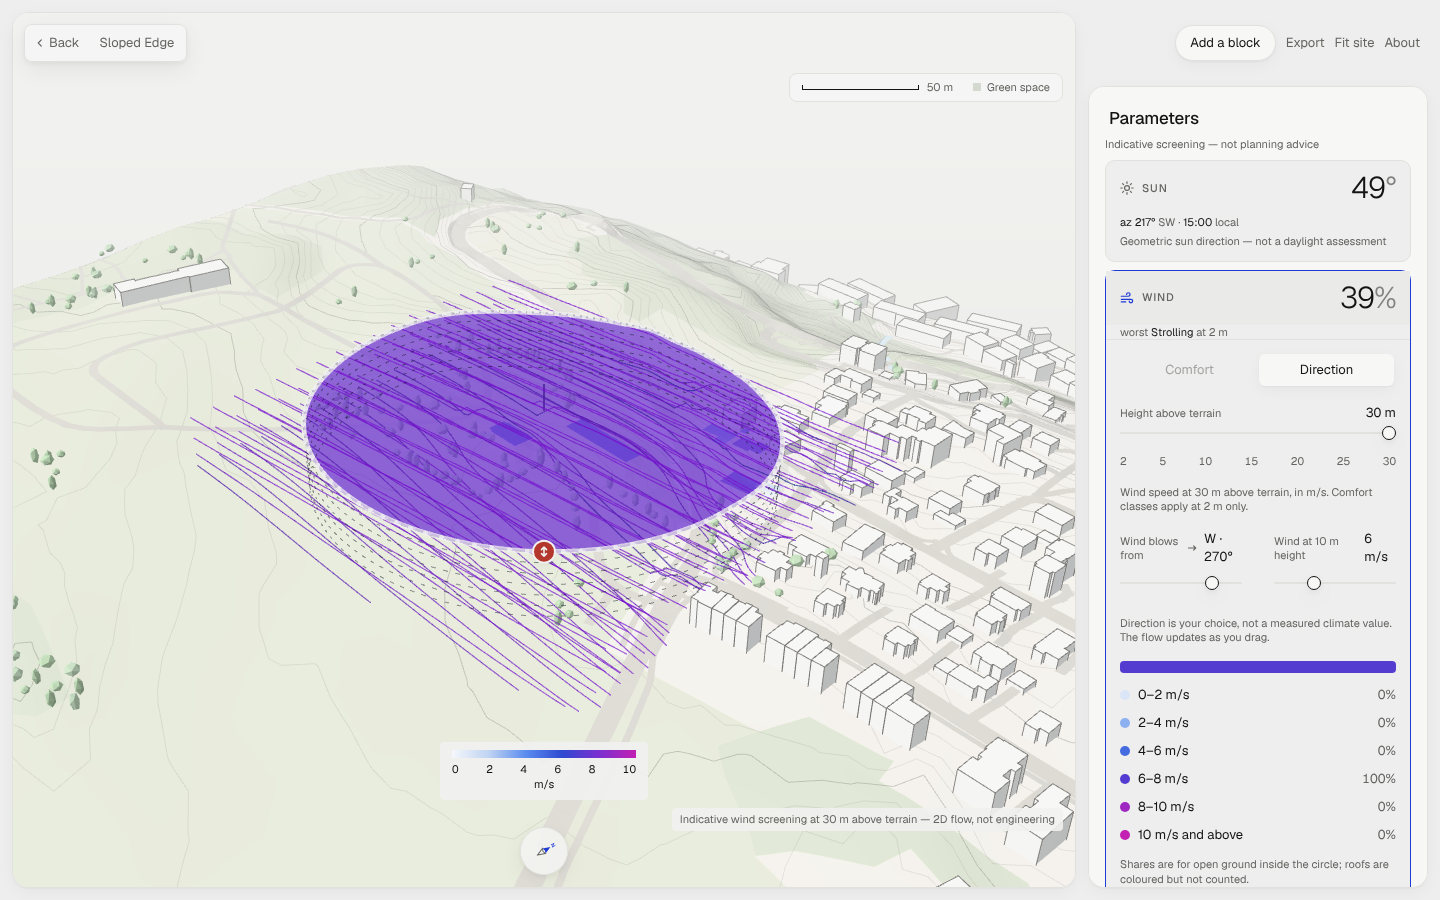
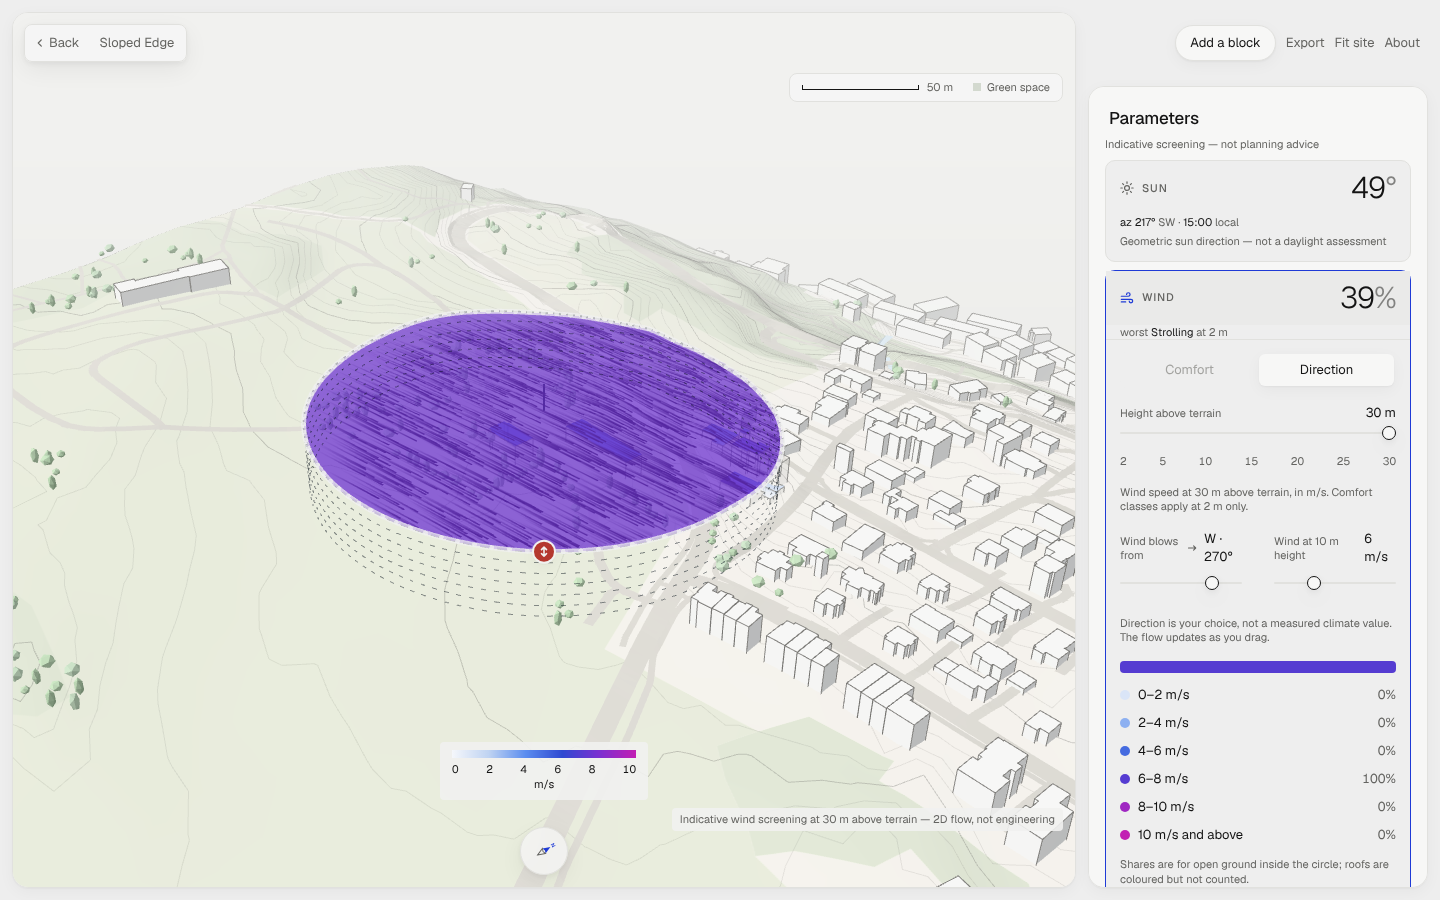
feat(wind): the lifted map shows the ground's particle flow
Owner request: instead of long lines, the same moving air as on the
ground. Two causes are fixed. Particle trails kept their older points at
the previous height, so every trail became a vertical streak while the
disc moved; the lift is now a WindParticles prop, and a change shifts
the stored trail points with it. And the 3D streamlines replaced the
particles when switched on or under reduced motion; above 2 m it is now
always the particles (traced once and held still under reduced motion).
The streamline controls are disabled above 2 m and say why.

Claude-Session: https://claude.ai/code/session_01GYZFU7DhZDxarShToDiTiP

Changed region(s): [[0.125, 0.3111, 0.625, 0.7778]]

diff --git a/src/scene/WindParticles.tsx b/src/scene/WindParticles.tsx
@@ -1,5 +1,5 @@
 import { useFrame } from '@react-three/fiber'
-import { useEffect, useMemo, useState } from 'react'
+import { useEffect, useMemo, useRef, useState } from 'react'
 import { BufferAttribute, BufferGeometry, Color, DoubleSide, DynamicDrawUsage, MeshBasicMaterial, type Camera, type OrthographicCamera, type PerspectiveCamera } from 'three'
 import { particleColour, type WindSettings } from '../features/analysis/climateView'
 import type { FlowResult } from '../features/analysis/flowRunner'
@@ -61,8 +61,14 @@ export function metresPerPixel(camera: Camera, distance: number, viewportHeightP
  * fading tail of its last positions, so the lines curve with the wind round the buildings. Under
  * reduced motion the trails are traced once and stay still.
  */
-export function WindParticles({ flow, circle, heightAt, wind }: {
+export function WindParticles({ flow, circle, heightAt, lift = 0, wind }: {
   flow: FlowResult
+  /**
+   * Height (m) above the terrain the trails are drawn at — the lifted wind disc (ADR-0028). A
+   * change moves every stored trail point by the same amount, so trails glide with the disc
+   * instead of stretching between the old height and the new one.
+   */
+  lift?: number
   /** Display settings: particles use the same colour scale as the map. */
   wind: WindSettings
   circle: { readonly centre: Vec2; readonly radius: number }
@@ -137,10 +143,13 @@ export function WindParticles({ flow, circle, heightAt, wind }: {
   const positions = position.array as Float32Array
   const colours = colour.array as Float32Array
 
+  // The lift already applied to the buffer. Heads are written with it, not with the prop, so a frame
+  // between a new prop and the shift below cannot write a point that then gets shifted twice.
+  const drawnLift = useRef(lift)
   /** Ribbon edges and colour of particle `i`'s head from its ENU position, velocity and speed ratio. */
   const setHead = (i: number, vx: number, vy: number, ratio: number) => {
     const x = state.pos[2 * i]!, y = state.pos[2 * i + 1]!
-    const up = heightAt(x, y) + PARTICLE_LIFT_M
+    const up = heightAt(x, y) + PARTICLE_LIFT_M + drawnLift.current
     // Half the ribbon width across the wind: ENU (−vy, vx), scene x = east, z = −north.
     const speed = Math.hypot(vx, vy) || 1
     const ax = (-vy / speed) * state.halfWidth, ay = (vx / speed) * state.halfWidth
@@ -227,6 +236,16 @@ export function WindParticles({ flow, circle, heightAt, wind }: {
     show(Math.floor(state.limit * (still ? 1 : trailDensity(state.halfWidth * 2))))
     // eslint-disable-next-line react-hooks/exhaustive-deps
   }, [])
+  // A new lift moves the whole trail buffer with the disc (only the scene-y components change).
+  useEffect(() => {
+    const delta = lift - drawnLift.current
+    drawnLift.current = lift
+    if (delta === 0) return
+    for (let at = 1; at < positions.length; at += 3) positions[at] = positions[at]! + delta
+    for (let at = 1; at < state.head.length; at += 3) state.head[at] = state.head[at]! + delta
+    position.needsUpdate = true
+  }, [lift, positions, position, state])
+
   useEffect(() => {
     if (still) trace()
     // eslint-disable-next-line react-hooks/exhaustive-deps
@@ -235,7 +254,7 @@ export function WindParticles({ flow, circle, heightAt, wind }: {
   useFrame(({ camera, size }, delta) => {
     if (still) return
     // Constant width on screen: sized for the distance to the circle, baked into each new trail point.
-    const distance = Math.hypot(camera.position.x - centre[0], camera.position.y - heightAt(centre[0], centre[1]), camera.position.z + centre[1])
+    const distance = Math.hypot(camera.position.x - centre[0], camera.position.y - heightAt(centre[0], centre[1]) - drawnLift.current, camera.position.z + centre[1])
     state.halfWidth = Math.min(1.5, Math.max(0.03, (metresPerPixel(camera, distance, size.height) * WIDTH_PX) / 2))
     const started = performance.now()
     animate(Math.min(delta, 0.05))

diff --git a/src/components/studio/ClimatePanel.tsx b/src/components/studio/ClimatePanel.tsx
@@ -292,20 +292,22 @@ export function ClimatePanel({ terrainReliefM = 0, showQuick = true, showModes =
 
         <Section title="Streamlines" action={
           <label className="grid size-8 cursor-pointer place-items-center">
-            <input type="checkbox" aria-label="Streamlines" checked={streamlines} onChange={(event) => { const on = event.currentTarget.checked; if (demoPlaying) onDemoEdit?.({}); onStreamlinesChange?.(on) }} className="size-4 accent-[var(--accent)]" />
+            <input type="checkbox" aria-label="Streamlines" checked={streamlines} disabled={wind.heightM > PEDESTRIAN_HEIGHT_M} aria-describedby={wind.heightM > PEDESTRIAN_HEIGHT_M ? 'streamlines-lifted' : undefined} onChange={(event) => { const on = event.currentTarget.checked; if (demoPlaying) onDemoEdit?.({}); onStreamlinesChange?.(on) }} className="size-4 accent-[var(--accent)]" />
           </label>
         }>
           <label className="flex items-center justify-between gap-3">
             <span className={labelClass}>Follow buildings in 3D</span>
-            <input type="checkbox" checked={wind.streamlines3d} disabled={!slicesReady}
+            <input type="checkbox" checked={wind.streamlines3d} disabled={!slicesReady || wind.heightM > PEDESTRIAN_HEIGHT_M}
               aria-describedby={!slicesReady ? 'upper-heights-status' : undefined}
               onChange={(event) => set({ streamlines3d: event.currentTarget.checked })}
               className="size-4 accent-[var(--accent)]" />
           </label>
-          {!wind.streamlines3d && <p className="text-caption text-ink-secondary">Flat at {wind.heightM} m above terrain, the height chosen above.</p>}
+          {wind.heightM > PEDESTRIAN_HEIGHT_M
+            ? <p id="streamlines-lifted" className="text-caption text-ink-secondary">Above 2 m the moving air shows as particles at the chosen height, like the ground view. Streamlines are a 2 m view.</p>
+            : !wind.streamlines3d && <p className="text-caption text-ink-secondary">Flat at 2 m above terrain.</p>}
           <label htmlFor="streamline-opacity" className={labelClass}>Streamline opacity</label>
           <input id="streamline-opacity" type="range" min={0.2} max={1} step={0.05}
-            value={wind.streamlineOpacity} disabled={!slicesReady}
+            value={wind.streamlineOpacity} disabled={!slicesReady || wind.heightM > PEDESTRIAN_HEIGHT_M}
             aria-valuetext={`${Math.round(wind.streamlineOpacity * 100)} percent`}
             aria-describedby={!slicesReady ? 'upper-heights-status' : undefined}
             onChange={(event) => set({ streamlineOpacity: Number(event.currentTarget.value) })}

diff --git a/src/scene/ViewportCanvas.tsx b/src/scene/ViewportCanvas.tsx
@@ -26,7 +26,7 @@ import { WindStreamlines } from './WindStreamlines'
 import { WindParticles } from './WindParticles'
 import { AnalysisCircle } from './AnalysisCircle'
 import { GhostRings, WindLiftHandle } from './WindLiftHandle'
-import { fadedBuildings, ghostHeights } from '../features/analysis/windLift'
+import { fadedBuildings, ghostHeights, windFlowStyle } from '../features/analysis/windLift'
 import { WorstArrows } from './WorstArrows'
 import type { FlowResult } from '../features/analysis/flowRunner'
 import type { RoofSolarValue } from '../features/analysis/roofSolar'
@@ -656,9 +656,9 @@ export function ViewportCanvas({
             {facade && <FacadeSun overlay={facade} heightAt={heightAt} />}
             {windWorst && <WorstArrows cells={windWorst.cells} worstFrom={windWorst.worstFrom} heightAt={heightAt} />}
             {!windWorst && windFlow?.slices && windCircle && <RoofWind buildings={windBuildings} flow={windFlow} circle={windCircle} heightAt={heightAt} wind={windShown} baseline={windBaseline} />}
-            {!windWorst && windFlow && windCircle && ((windStreamlines || reducedMotion)
+            {!windWorst && windFlow && windCircle && (windFlowStyle({ lifted: windLift > 0 || liftDrag !== null, streamlinesOn: windStreamlines, reducedMotion }) === 'streamlines'
               ? windFlow.settled && (windSettings.streamlines3d || windField) && <WindStreamlines flow={windFlow} circle={windCircle} heightAt={heightAt} heightM={windSettings.streamlines3d ? null : windSettings.heightM} opacity={windSettings.streamlineOpacity} buildings={windBuildings} />
-              : windField && <WindParticles flow={windField} circle={windCircle} heightAt={windHeightAt} wind={windShown} />)}
+              : windField && <WindParticles flow={windField} circle={windCircle} heightAt={heightAt} lift={windLift} wind={windShown} />)}
             {windCircle && <AnalysisCircle centre={windCircle.centre} radius={windCircle.radius} heightAt={windHeightAt} />}
             {windCircle && ghostRings.length > 0 && <GhostRings centre={windCircle.centre} radius={windCircle.radius} heightAt={heightAt} heights={ghostRings} />}
             {windCircle && liftable && onWindHeightChange && (

diff --git a/src/features/analysis/windLift.test.ts b/src/features/analysis/windLift.test.ts
@@ -1,5 +1,5 @@
 import { describe, expect, it } from 'vitest'
-import { clampLift, fadedBuildings, footprintTouchesCircle, ghostHeights, heightText, liftAnchor, nearestHeight, stepHeight } from './windLift'
+import { windFlowStyle, clampLift, fadedBuildings, footprintTouchesCircle, ghostHeights, heightText, liftAnchor, nearestHeight, stepHeight } from './windLift'
 
 const HEIGHTS = [2, 5, 10, 15, 20, 25, 30]
 
@@ -85,5 +85,17 @@ describe('footprint and circle (code review 2026-11-13, finding 7)', () => {
     const big: [number, number][] = [[-500, -500], [500, -500], [500, 500], [-500, 500]]
     expect(footprintTouchesCircle(big, centre, 100)).toBe(true)
     expect(footprintTouchesCircle([[200, 200], [210, 200], [210, 210], [200, 210]], centre, 100)).toBe(false)
+  })
+})
+
+describe('how the moving air is drawn', () => {
+  it('is always the particle animation once the map is lifted (owner, 2026-11-13)', () => {
+    expect(windFlowStyle({ lifted: true, streamlinesOn: true, reducedMotion: false })).toBe('particles')
+    expect(windFlowStyle({ lifted: true, streamlinesOn: false, reducedMotion: true })).toBe('particles')
+  })
+  it('keeps the 2 m choice: streamlines when on or under reduced motion, otherwise particles', () => {
+    expect(windFlowStyle({ lifted: false, streamlinesOn: false, reducedMotion: false })).toBe('particles')
+    expect(windFlowStyle({ lifted: false, streamlinesOn: true, reducedMotion: false })).toBe('streamlines')
+    expect(windFlowStyle({ lifted: false, streamlinesOn: false, reducedMotion: true })).toBe('streamlines')
   })
 })

diff --git a/src/components/studio/ClimatePanel.test.tsx b/src/components/studio/ClimatePanel.test.tsx
@@ -288,6 +288,19 @@ it('on a steep site the lifted map says it follows the ground but is solved flat
   expect(screen.getByText(/Steep site/)).toHaveTextContent('each height is still solved as a flat slice')
 })
 
+it('above 2 m the streamline controls are off and say the flow shows as particles (owner, 2026-11-13)', () => {
+  const props = { mode: 'wind' as const, onModeChange: vi.fn(), onWindChange: vi.fn(), view: null, availableHeights: [2, 5, 10, 15, 20, 25, 30], slicesComplete: true }
+  const { rerender } = render(<ClimatePanel {...props} wind={{ ...DEFAULT_WIND, heightM: 20 }} />)
+  const toggle = screen.getByRole('checkbox', { name: 'Streamlines' })
+  expect(toggle).toBeDisabled()
+  expect(toggle).toHaveAccessibleDescription(/particles at the chosen height/)
+  expect(screen.getByLabelText('Follow buildings in 3D')).toBeDisabled()
+  expect(screen.getByLabelText('Streamline opacity')).toBeDisabled()
+  rerender(<ClimatePanel {...props} wind={{ ...DEFAULT_WIND, heightM: 2 }} />)
+  expect(screen.getByRole('checkbox', { name: 'Streamlines' })).toBeEnabled()
+  expect(screen.getByLabelText('Follow buildings in 3D')).toBeEnabled()
+})
+
 it('the worst case is a 2 m screen: choosing it returns to 2 m and locks the height', () => {
   const onWindChange = vi.fn()
   const sweep = { sectors: [{ from: 0, meanRatio: 0.6, shareAbove: 0.1 }], worstFrom: 0, total: 8 }

diff --git a/src/features/analysis/windLift.ts b/src/features/analysis/windLift.ts
@@ -80,5 +80,16 @@ export function fadedBuildings(buildings: readonly Footprinted[], circle: { read
   return faded
 }
 
+/**
+ * How the moving air is drawn. Above 2 m — or while the disc is being lifted — it is always the
+ * particle animation the ground shows, at the disc's height: the owner's call (2026-11-13), and the
+ * long 3D streamlines are a pedestrian-height view. At rest on 2 m the existing choice stands:
+ * streamlines when switched on or under reduced motion, particles otherwise.
+ */
+export function windFlowStyle({ lifted, streamlinesOn, reducedMotion }: { lifted: boolean; streamlinesOn: boolean; reducedMotion: boolean }): 'particles' | 'streamlines' {
+  if (lifted) return 'particles'
+  return streamlinesOn || reducedMotion ? 'streamlines' : 'particles'
+}
+
 /** The spoken value of a height stop. */
 export const heightText = (z: number) => `${z} metres above terrain`

diff --git a/docs/agent-log.md b/docs/agent-log.md
@@ -140,3 +140,4 @@ Record every meaningful agent engagement. The point is to preserve **why** an ou
 | 2026-11-13 | Wind lift Phase 3 (ADR-0028) | Claude (gis-3d-scene-developer + engineering-frontend-developer) | Lift handle, stepped height slider, dashed rings at the other heights, fading buildings below the disc | `src/features/analysis/windLift.ts` (new) + tests, `src/scene/WindLiftHandle.tsx` (new: handle, rings), `src/scene/ViewportCanvas.tsx` (split faded mesh, drag state), `src/components/studio/{ClimatePanel,StudioShell}.tsx`, `e2e/wind.spec.ts`, 7 screenshots | Accepted (pending owner review) | Handle and slider share `heightM`. The drag follows a vertical plane through the handle; the map snaps to the nearest solved slice. Esc restores the start height and is stopped from reaching the studio's own Esc handlers. Faded buildings are a second translucent mesh, because the context buildings are one merged mesh. E2e (slider → handle keyboard → drag + Esc → Home) passed first time locally. Masses are not faded. |
 | 2026-11-13 | Wind lift Phase 4 (ADR-0028) | Claude (engineering-technical-writer + engineering-senior-developer) | Claims and labels at height | `src/features/analysis/climateView.ts` (`windCaption`, `LIFT_SLOPE_NOTE`), `src/scene/ViewportCanvas.tsx` (caption, roofs on the shown scale), `src/components/studio/{ClimatePanel,analysisValues,StudioShell}.ts(x)`, tests, `e2e/wind.spec.ts`, 5 re-captured screenshots | Accepted (pending owner review) | The map caption names the height; the claim itself is unchanged. The Phase 3 screenshots showed roofs in comfort colours beside an m/s map: roofs now follow the displayed scale. The card's comfort figure says "at 2 m" while lifted. D34 forbidden-claims e2e passes. |
 | 2026-11-13 | Wind lift Phase 5 (ADR-0028) | Claude (engineering-code-reviewer via the `code-review` skill; fixes as engineering-minimal-change-engineer) | G1 review of Phases 1–4 and the fixes; G3 engineer's visual check | `docs/reviews/wind-lift-review.md` (new), `src/features/analysis/{climateView,windLift}.ts`, `src/scene/{ViewportCanvas,WindLiftHandle,siteGeometry}.ts(x)`, `src/components/studio/{ClimatePanel,StudioShell}.tsx`, tests, plan, AGENTS.md §10 | Accepted (pending owner review) | 10 findings: 9 confirmed and fixed, 1 (faded buildings keep their sun shadows) kept by design. Finding 6 was measured before fixing: rebuilding the merged context mesh cost 65–100 ms per height step on Compact Infill; it is now built once and faded by a per-vertex attribute. Open: the formal finish-gate pass over the wind-lift screenshots; a sloped import capture (the import sources were unreachable from this environment). |
+| 2026-11-13 | Wind lift: particles at height (owner request) | Claude (gis-3d-scene-developer) | "Instead of those long lines I want the same wind flow as on the ground with the same animation" | `src/scene/WindParticles.tsx` (`lift`), `src/scene/ViewportCanvas.tsx`, `src/features/analysis/windLift.ts` (`windFlowStyle`), `src/components/studio/ClimatePanel.tsx`, tests, plan, 7 re-captured screenshots (the 2 m ones differ only through the Phase 5 building shader) | Accepted (pending owner review) | Two causes of the long lines. (1) A bug: particle trails kept their old points at the previous height, so each trail became a vertical streak whenever the height changed (continuously while dragging). Trails now shift with the lift. (2) 3D streamlines replaced the particles under reduced motion or when switched on; above 2 m it is now always the particles. Streamline controls are disabled above 2 m, with the reason. Verified by eye at 10 m with normal and reduced motion. |

diff --git a/docs/plans/wind-lift-plan.md b/docs/plans/wind-lift-plan.md
@@ -75,6 +75,12 @@ Within the 2× budget, so the requested-height-first reordering (§5.1) is not n
 
 The e2e test lifts to 20 m with the slider, steps to 25 m with the keyboard on the handle, drags, cancels with Esc and returns home. Screenshots: `docs/screenshots/wind-lift-{compact-infill,sloped-edge}-{2m,10m,30m}-1440x900.png` and `docs/screenshots/wind-lift-compact-infill-top-1440x900.png` (65 m: Compact Infill has a tower over 30 m).
 
+**Changed on the owner's request (2026-11-13): the flow above 2 m is the ground's particle animation.** The lifted map showed long lines, for two reasons:
+- Trails kept their older points at the previous height, so every particle became a vertical streak while the disc moved.
+- The 3D streamlines took over when switched on or under reduced motion.
+
+Now `WindParticles` takes the lift and shifts every stored trail point by the same amount, so trails glide with the disc. `windFlowStyle` always picks particles above 2 m, or while the disc is dragged; under reduced motion they are traced once and left in place. The streamline controls are disabled above 2 m and say why.
+
 Not done:
 - **Drawn masses are not faded,** only context buildings. The user's own blocks stay solid while being designed.
 - **The handle's edge point is fixed** when the circle is placed; it does not follow the camera as it orbits.

diff --git a/progress.md b/progress.md
@@ -914,3 +914,10 @@ zoom in because the quads are small at the default site camera.
 - e2e on the production build: wind, wind-a11y and layers 11/11.
 - A sloped import capture was not possible: ws.geonorge.no, api.openstreetmap.org, tiles.openfreemap.org and
   photon.komoot.io are all unreachable from this environment (curl: no connection).
+
+## 2026-11-13 — Wind lift: particles at height (owner request)
+
+- With normal motion, a lifted map's particle trails were vertical streaks: the trail buffer kept the old height.
+  Reproduced in a 10 m capture, then fixed: the lift is a `WindParticles` prop and a change shifts the stored points.
+- Above 2 m the flow is always particles (`windFlowStyle`); 3 new unit tests. Lint, 1072 unit tests and the build
+  pass; e2e wind, wind-a11y and simplified-studio 6/6. 10 m captures with normal and reduced motion checked by eye.
